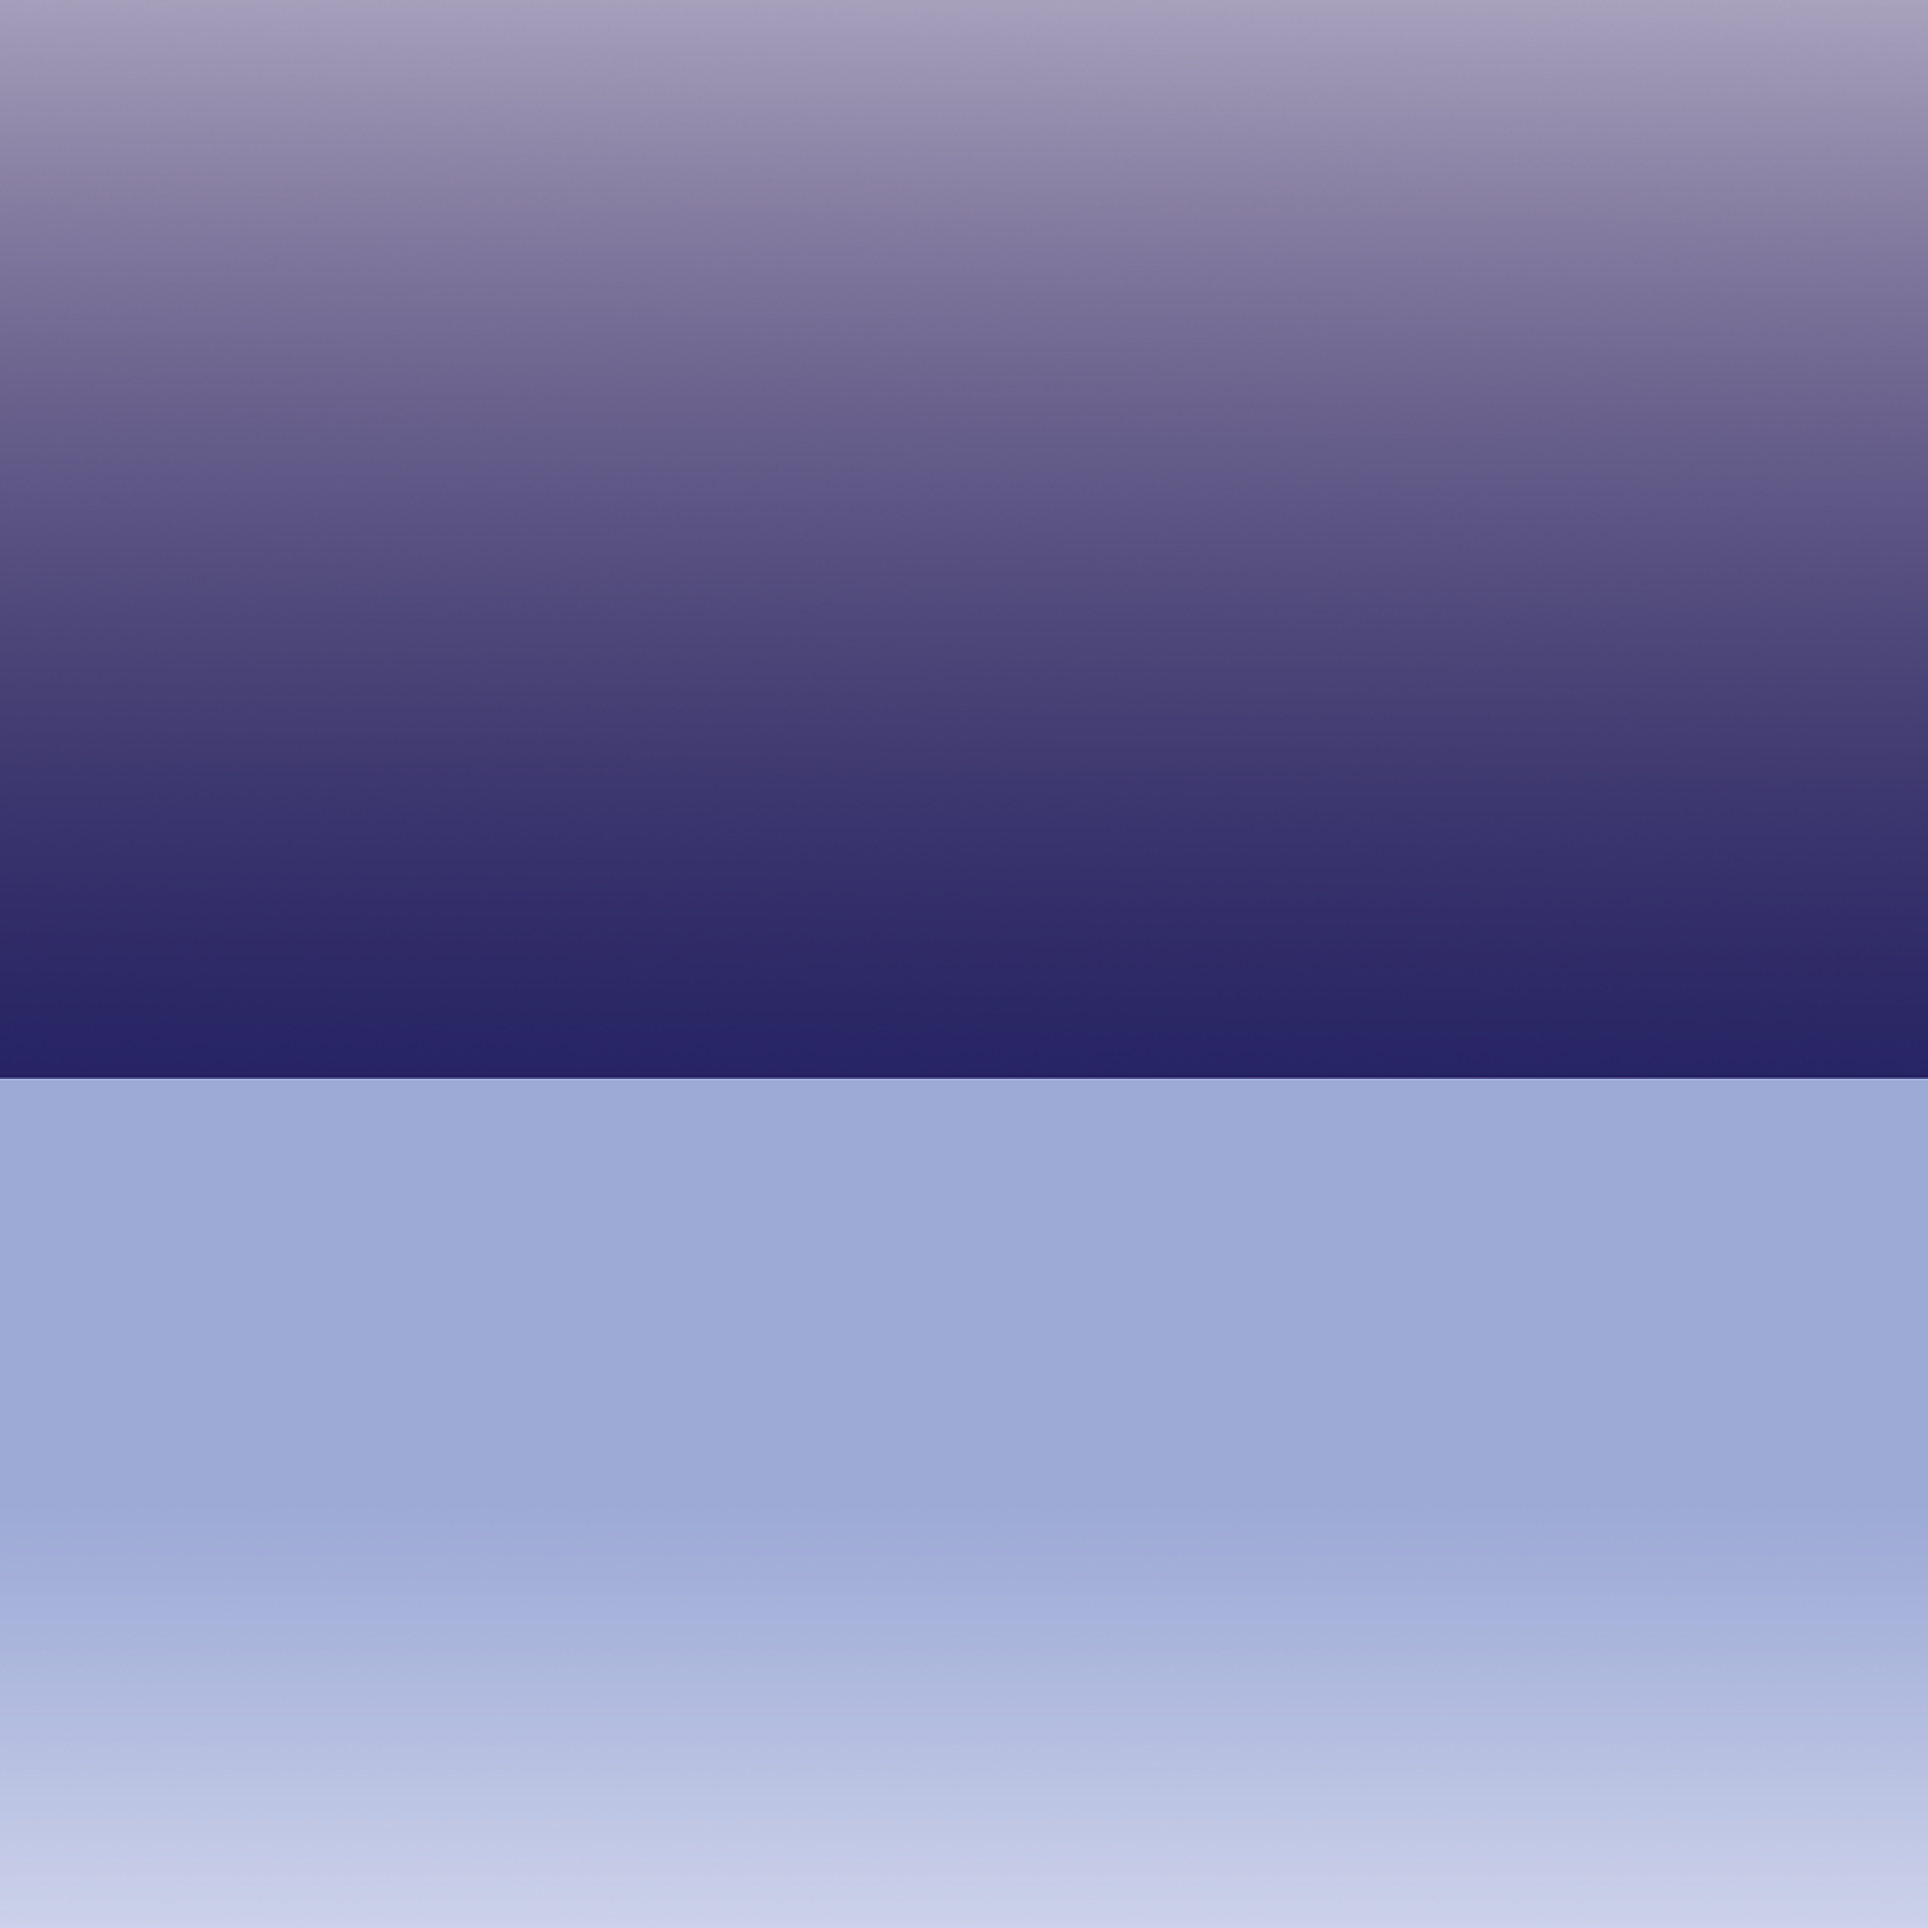
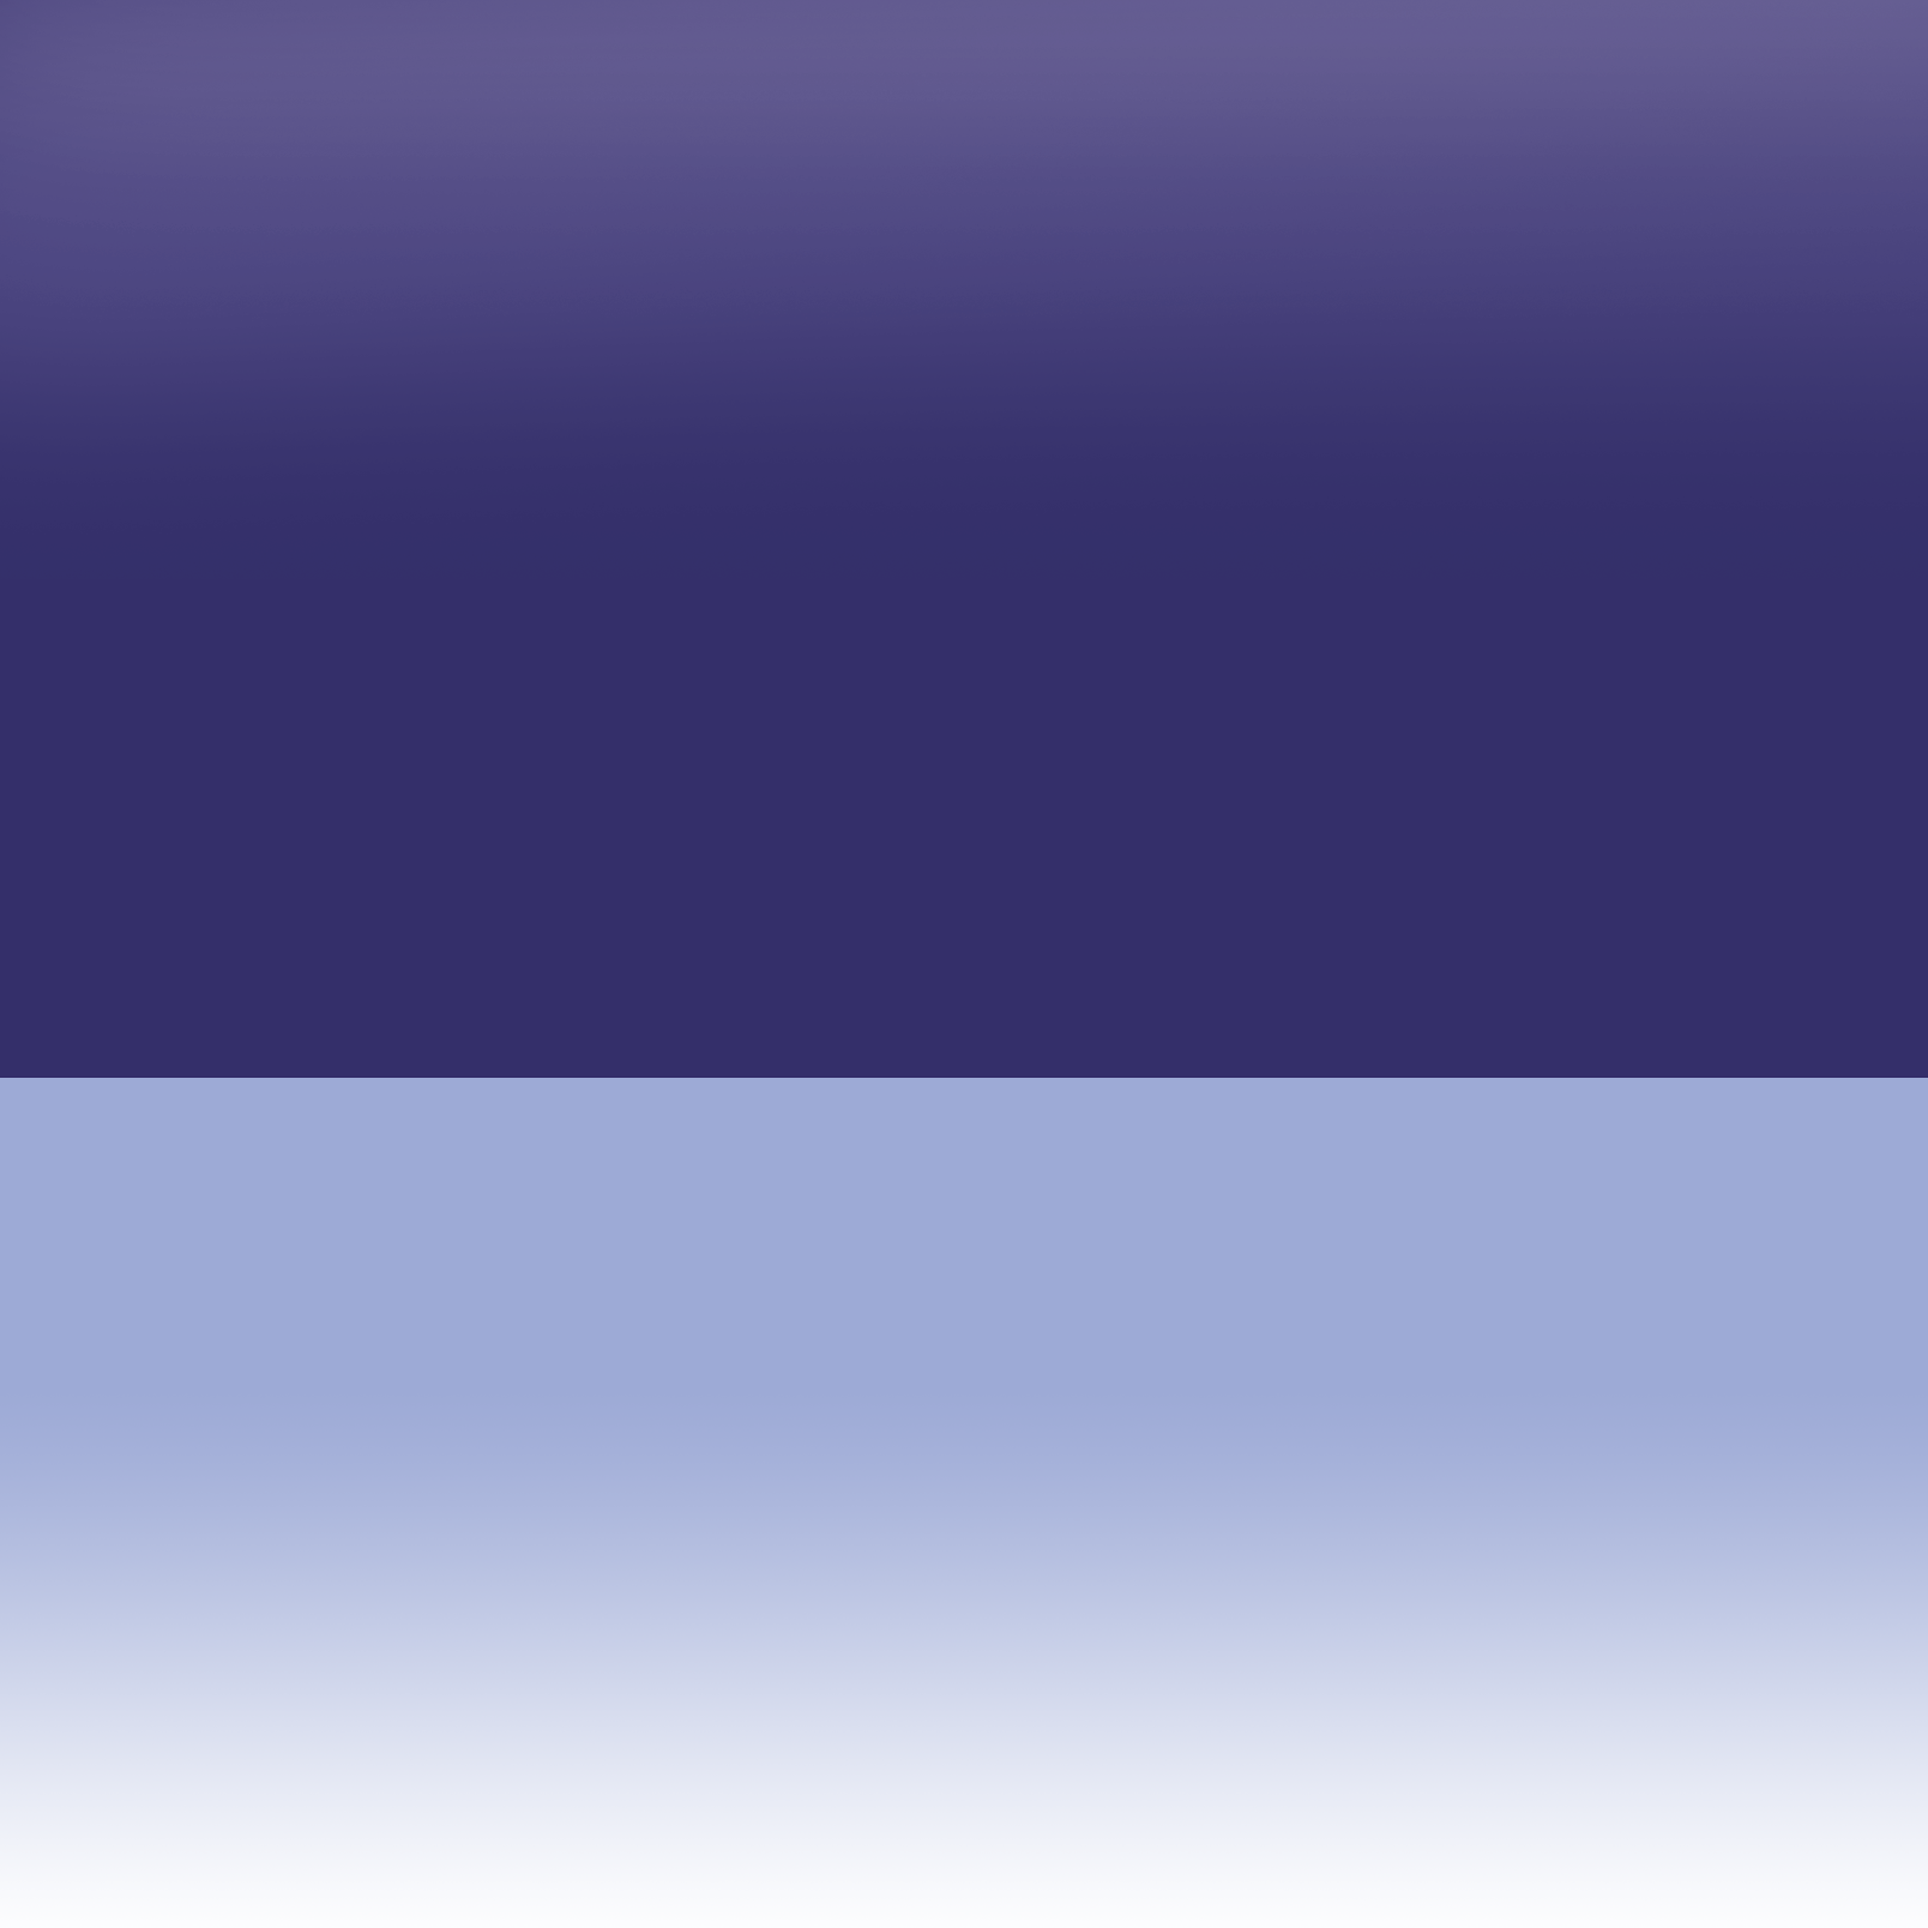
-Added the updated summary images.

diff --git a/Steve/src/com/steve/stages/Summary.java b/Steve/src/com/steve/stages/Summary.java
@@ -15,12 +15,14 @@ public class Summary {
 	Texture diedStarvation;
 	Texture diedBlocker;
 	Texture diedSpace;
+	Texture diedPlayer;
 	Texture background;
 	
 	Sprite diedEnemySprite;
 	Sprite diedStarvationSprite;
 	Sprite diedBlockerSprite;
 	Sprite diedSpaceSprite;
+	Sprite diedPlayerSprite;
 	Sprite backgroundSprite;
 	
 	Sprite savingSprite;
@@ -56,6 +58,7 @@ public class Summary {
 		diedStarvation = new Texture(Gdx.files.internal("data/diedStarvation.png"));
 		diedBlocker = new Texture(Gdx.files.internal("data/diedBlocker.png"));
 		diedSpace = new Texture(Gdx.files.internal("data/diedSpace.png"));
+		diedPlayer = new Texture(Gdx.files.internal("data/diedPlayer.png"));
 		background = new Texture(Gdx.files.internal("data/diedBackground.png"));
 		
 		diedEnemySprite = new Sprite(new TextureRegion(diedEnemy, 0f, 0f, 1f, 1f));
@@ -70,6 +73,9 @@ public class Summary {
 		diedSpaceSprite = new Sprite(new TextureRegion(diedSpace, 0f, 0f, 1f, 1f));
 		diedSpaceSprite.scale(SteveDriver.guiCamera.viewportWidth / diedSpaceSprite.getWidth() - 1f);
 		diedSpaceSprite.setPosition(diedSpaceSprite.getWidth() / 2 * -1, diedSpaceSprite.getHeight() / 2 * -1);
+		diedPlayerSprite = new Sprite(new TextureRegion(diedPlayer, 0f, 0f, 1f, 1f));
+		diedPlayerSprite.scale(SteveDriver.guiCamera.viewportWidth / diedPlayerSprite.getWidth() - 1f);
+		diedPlayerSprite.setPosition(diedPlayerSprite.getWidth() / 2 * -1, diedPlayerSprite.getHeight() / 2 * -1);
 		backgroundSprite = new Sprite(new TextureRegion(background, 0f, 0f, 1f, 1f));
 		backgroundSprite.scale(SteveDriver.guiCamera.viewportHeight / diedBlockerSprite.getHeight() - 1f);
 		
@@ -148,6 +154,7 @@ public class Summary {
 			diedEnemySprite.draw(SteveDriver.batch);
 			break;
 		case player:
+			diedPlayerSprite.draw(SteveDriver.batch);
 			break;
 		case space:
 			diedSpaceSprite.draw(SteveDriver.batch);
